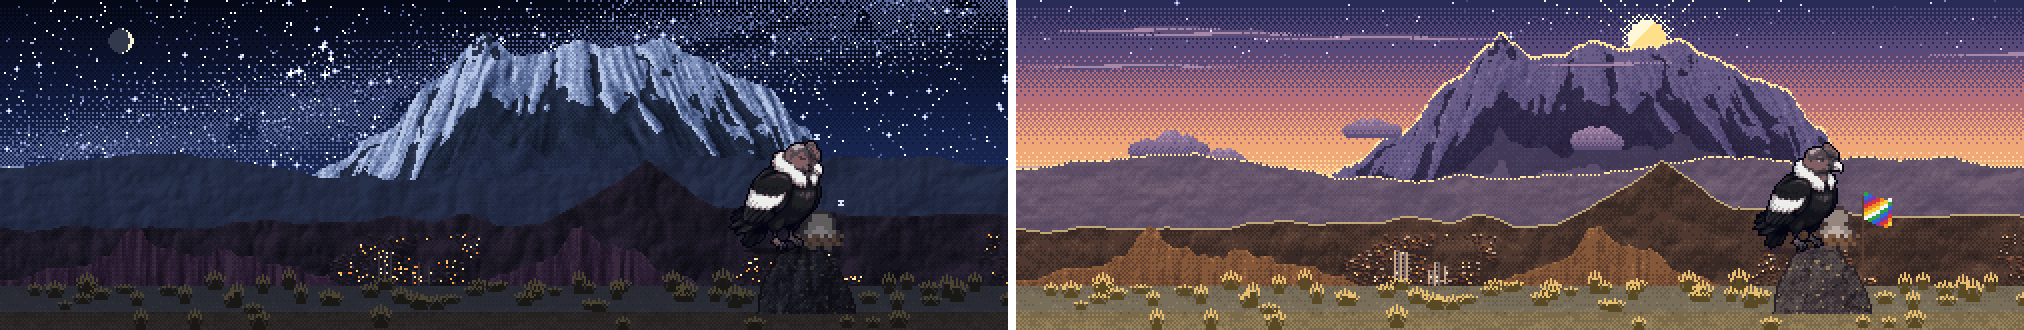
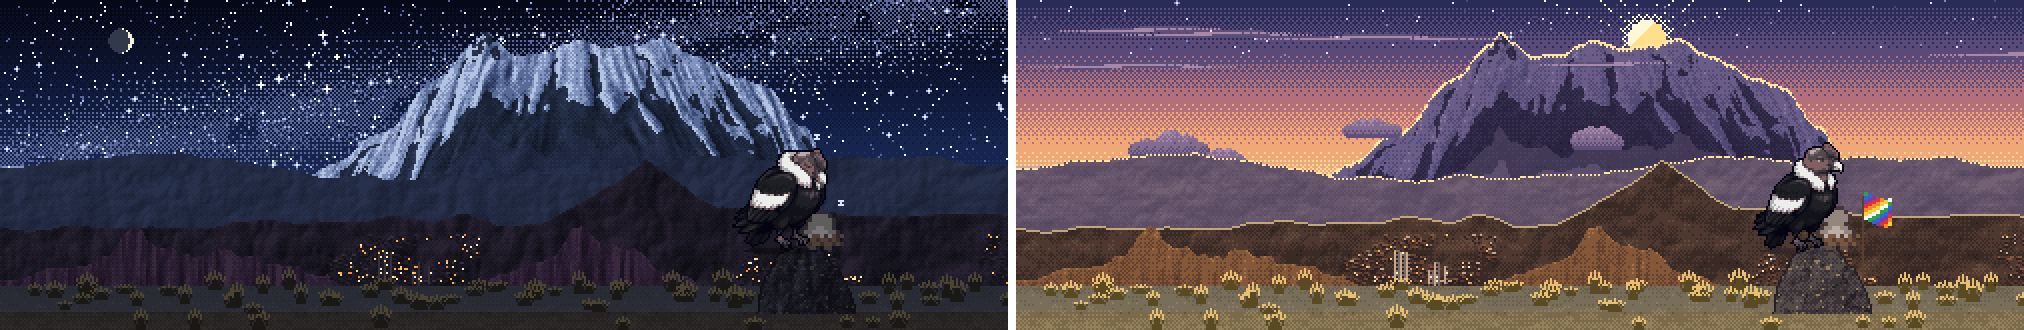
feat: add CI workflow for testing, update README and CHANGELOG, and include demo GIFs

diff --git a/tools/demo-gif.js b/tools/demo-gif.js
@@ -1,9 +1,10 @@
 // Records the README demo GIF from the real webview in headless Chrome (no build needed):
 // every <step> ms the scene, the pet sprite and the effects are composited into one frame,
-// then tools/gif.py turns the frames into a crisp 2x GIF with one shared palette.
+// then tools/gif.py turns the frames into a crisp, scaled-up GIF with one shared palette.
 //
 //   node tools/demo-gif.js            -> docs/condor.gif
 //   node tools/demo-gif.js capybara   -> docs/capybara.gif
+// Needs Chrome/Edge/Chromium (or CHROME_PATH) and Python with Pillow (`pip install pillow`).
 'use strict';
 const fs = require('fs');
 const os = require('os');
@@ -12,10 +13,16 @@ const { execFileSync } = require('child_process');
 const { ROOT, renderHtml, findBrowser } = require('../test/harness');
 
 const pet = process.argv[2] || 'condor';
-const START = 400, FRAMES = 170, STEP = 100;
-// What happens on screen: soar, rest on the rock by the chick, celebrate a test run, take off.
-const EVENTS = [[11500, 'celebrate', 'tests ✓'], [15000, 'typing'], [15400, 'typing']];
-const settings = { pet, background: 'scene', weather: 'clear', seasons: false, coffeeAfterSeconds: 4, sleepAfterSeconds: 3600 };
+const START = 400, STEP = 100;
+// What happens on screen, per pet: [ms, message type, bubble text].
+const SCRIPTS = {
+  // Soar, rest on the rock by the chick, celebrate a test run, take off again.
+  condor: { frames: 170, scale: 2, coffee: 4, events: [[11500, 'celebrate', 'tests ✓'], [15000, 'typing'], [15400, 'typing']] },
+  // Stroll, share a watermelon with the baby, celebrate a commit, swim, come back out.
+  capybara: { frames: 200, scale: 4, coffee: 600, events: [[1500, 'feed'], [9000, 'celebrate', 'commit!'], [11000, 'swim'], [17500, 'typing'], [17900, 'typing']] },
+};
+const { frames: FRAMES, scale, coffee, events: EVENTS } = SCRIPTS[pet]; // the capybara's world is on a coarser grid
+const settings = { pet, background: 'scene', weather: 'clear', seasons: false, coffeeAfterSeconds: coffee, sleepAfterSeconds: 3600 };
 
 const RECORDER = `<script>(() => {
   ${JSON.stringify(EVENTS)}.forEach(([t, type, text]) => setTimeout(() => window.postMessage({ type, text }, '*'), t));
@@ -61,5 +68,5 @@ fs.mkdirSync(frames);
 m[1].split(' ').forEach((u, i) =>
   fs.writeFileSync(path.join(frames, String(i).padStart(3, '0') + '.png'), Buffer.from(u.split(',')[1], 'base64')));
 const gif = path.join(ROOT, 'docs', `${pet}.gif`);
-execFileSync('python', [path.join(__dirname, 'gif.py'), frames, gif, String(STEP)], { stdio: 'inherit' });
+execFileSync('python', [path.join(__dirname, 'gif.py'), frames, gif, String(STEP), String(scale)], { stdio: 'inherit' });
 fs.rmSync(dir, { recursive: true, force: true });

diff --git a/media/pixelart.js b/media/pixelart.js
@@ -1456,14 +1456,18 @@
     const CRUX = [[0, -1, 2], [0.15, 1.1, 2], [-0.6, 0.15, 2], [0.55, -0.15, 1], [0.3, 0.45, 0], [-2.4, 0.95, 2], [-1.7, 0.75, 2]];
     function drawSouthernCross() {
       if (mode !== 'night' || !P.star || P.wet || !(habitat === 'andes' || world.south)) { return; }
-      const cx = W * 0.32, cy = horizon * 0.3, k = Math.max(3, horizon * 0.07);
-      CRUX.forEach(([dx, dy, mag], i) => {
-        const x = Math.round(cx + dx * k), y = Math.round(cy + dy * k);
-        if (x < 1 || x >= W - 1 || y < 1 || (skyTop && y >= skyTop(x) - 1)) { return; }
-        const tw = Math.sin(t * (0.05 + i * 0.013) + i) > -0.6;
+      const cx = W * 0.32, cy = horizon * 0.3, k = Math.max(5, horizon * 0.13);
+      const pts = CRUX.map(([dx, dy, mag]) => ({ x: Math.round(cx + dx * k), y: Math.round(cy + dy * k), mag }));
+      if (!stars.cruxClear) { // give it room: no background stars right around its stars
+        stars = stars.filter((s) => pts.every((q) => Math.abs(s.x - q.x) > 3 || Math.abs(s.y - q.y) > 3));
+        stars.cruxClear = true;
+      }
+      pts.forEach(({ x, y, mag }, i) => {
+        if (x < 2 || x >= W - 2 || y < 2 || (skyTop && y >= skyTop(x) - 2)) { return; }
+        const tip = Math.sin(t * (0.05 + i * 0.013) + i) > -0.4 ? P.star[1] : P.star[0]; // the long arms twinkle
         dot(sc, P.star[2], x, y);
-        if (mag >= 1 && tw) { dot(sc, P.star[2], x - 1, y); dot(sc, P.star[2], x + 1, y); dot(sc, P.star[2], x, y - 1); dot(sc, P.star[2], x, y + 1); }
-        if (mag >= 2 && HK > 1 && tw) { dot(sc, P.star[1], x - 2, y); dot(sc, P.star[1], x + 2, y); dot(sc, P.star[1], x, y - 2); dot(sc, P.star[1], x, y + 2); }
+        if (mag >= 1) { dot(sc, P.star[2], x - 1, y); dot(sc, P.star[2], x + 1, y); dot(sc, P.star[2], x, y - 1); dot(sc, P.star[2], x, y + 1); }
+        if (mag >= 2) { dot(sc, tip, x - 2, y); dot(sc, tip, x + 2, y); dot(sc, tip, x, y - 2); dot(sc, tip, x, y + 2); }
       });
     }
 

diff --git a/test/smoke.js b/test/smoke.js
@@ -61,6 +61,7 @@ for (const pet of PETS) {
       let out = '';
       try {
         out = execFileSync(browser, ['--headless=new', '--disable-gpu', '--allow-file-access-from-files',
+          ...(process.env.CI ? ['--no-sandbox'] : []), // CI runners (Ubuntu 24.04) block Chrome's sandbox
           `--user-data-dir=${path.join(dir, 'profile')}`, '--window-size=900,330', '--virtual-time-budget=16000',
           '--dump-dom', 'file:///' + file.replace(/\\/g, '/')], { encoding: 'utf8', stdio: ['ignore', 'pipe', 'ignore'], timeout: 120000 });
       } catch (e) { out = String(e.stdout || ''); }

diff --git a/tools/gif.py b/tools/gif.py
@@ -1,6 +1,6 @@
-"""Frames -> pixel-art GIF: 2x nearest-neighbour, one shared palette (no flicker), no dithering.
+"""Frames -> pixel-art GIF: scaled up nearest-neighbour (2x by default), one shared palette (no flicker), no dithering.
 
-    python tools/gif.py <frames dir> <out.gif> <ms per frame>
+    python tools/gif.py <frames dir> <out.gif> <ms per frame> [scale]
 """
 import os
 import sys
@@ -8,13 +8,14 @@ import sys
 from PIL import Image
 
 src, out, ms = sys.argv[1], sys.argv[2], int(sys.argv[3])
+k = int(sys.argv[4]) if len(sys.argv) > 4 else 2
 frames = [Image.open(os.path.join(src, f)).convert('RGB') for f in sorted(os.listdir(src)) if f.endswith('.png')]
-frames = [f.resize((f.width * 2, f.height * 2), Image.NEAREST) for f in frames]
+frames = [f.resize((f.width * k, f.height * k), Image.NEAREST) for f in frames]
 w, h = frames[0].size
 sample = frames[:: max(1, len(frames) // 6)]
 strip = Image.new('RGB', (w, h * len(sample)))
-for k, f in enumerate(sample):
-    strip.paste(f, (0, k * h))
+for i, f in enumerate(sample):
+    strip.paste(f, (0, i * h))
 pal = strip.quantize(colors=128, method=Image.Quantize.MEDIANCUT)
 q = [f.quantize(palette=pal, dither=Image.Dither.NONE) for f in frames]
 q[0].save(out, save_all=True, append_images=q[1:], duration=ms, loop=0, optimize=True, disposal=1)

diff --git a/README.md b/README.md
@@ -5,6 +5,7 @@
 [![Rating](https://img.shields.io/visual-studio-marketplace/r/JuanCarlosCondori.capibara-pet?color=gold)](https://marketplace.visualstudio.com/items?itemName=JuanCarlosCondori.capibara-pet&ssr=false#review-details)
 [![Open VSX](https://img.shields.io/open-vsx/v/JuanCarlosCondori/capibara-pet?label=Open%20VSX&color=c160ef)](https://open-vsx.org/extension/JuanCarlosCondori/capibara-pet)
 [![Open VSX Downloads](https://img.shields.io/open-vsx/dt/JuanCarlosCondori/capibara-pet?label=Open%20VSX%20downloads&color=c160ef)](https://open-vsx.org/extension/JuanCarlosCondori/capibara-pet)
+[![Tests](https://github.com/JuKaCo/capibara-pet-for-VSC/actions/workflows/test.yml/badge.svg)](https://github.com/JuKaCo/capibara-pet-for-VSC/actions/workflows/test.yml)
 [![License: MIT](https://img.shields.io/badge/License-MIT-green.svg)](LICENSE)
 
 A little capybara pet that lives in a panel inside your VS Code editor. It strolls around calmly, runs while you type, gets scared when there are errors, sips its coffee during short breaks, and falls asleep if you leave it alone for a while.
@@ -221,6 +222,17 @@ Using **Cursor, Windsurf, VSCodium** or another editor based on Open VSX? It's t
 
 - No runtime dependencies and no configuration needed — it just works.
 - The pet lives in a webview panel (VS Code does not allow floating overlays on top of the editor), with a transparent background so it blends with your theme.
+
+## Development
+
+```bash
+npm install
+npm test          # type-check, unit tests and a headless-Chrome smoke test of the webview
+```
+
+Press `F5` in VS Code to try the extension in a new window (it needs Node 18 or newer). `npm test` runs the real webview for both pets in every time of day and weather and fails on any JavaScript error; it needs Chrome, Edge or Chromium (set `CHROME_PATH` to pick one) and runs on every push in GitHub Actions.
+
+The demo GIFs are recorded from the real webview too: `node tools/demo-gif.js` (condor) or `node tools/demo-gif.js capybara` write `docs/<pet>.gif`. This also needs Python with Pillow (`pip install pillow`).
 
 ## Credits
 

diff --git a/CHANGELOG.md b/CHANGELOG.md
@@ -19,10 +19,15 @@ All notable changes to the **Capibara Pet** extension are documented here.
   reactions (including the terminal command classifier) and smoke-tests the real webview
   for both pets in every time of day and weather in headless Chrome, failing on any
   JavaScript error.
-- **A demo GIF of the condor** in the README, recorded from the real webview by
-  `tools/demo-gif.js`.
+- **Demo GIFs** recorded from the real webview by `tools/demo-gif.js`: the condor
+  (`docs/condor.gif`, in the README) and the capybara (`docs/capybara.gif`).
+- **Continuous integration**: `npm test` runs in GitHub Actions on every push and pull
+  request (badge in the README), and a *Development* section explains how to run and
+  test the extension.
 
 ### Changed
+- The Southern Cross is larger and clearer: background stars no longer crowd it, and
+  its brightest stars always show their spikes, so it reads even in a small panel.
 - At dawn the clouds in front of the Illimani are backlit (the sun rises behind the
   mountain) instead of glowing like the sky, which made them look like holes in the
   massif.
